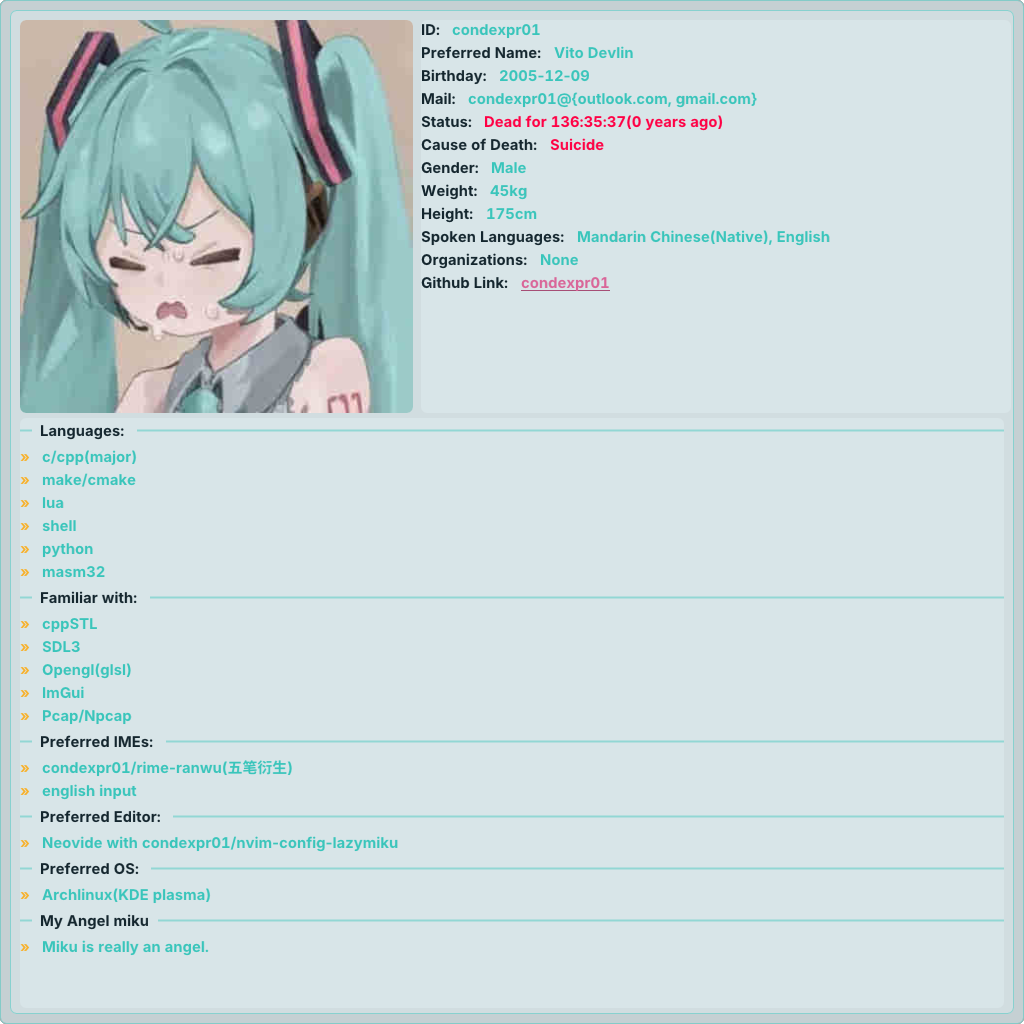
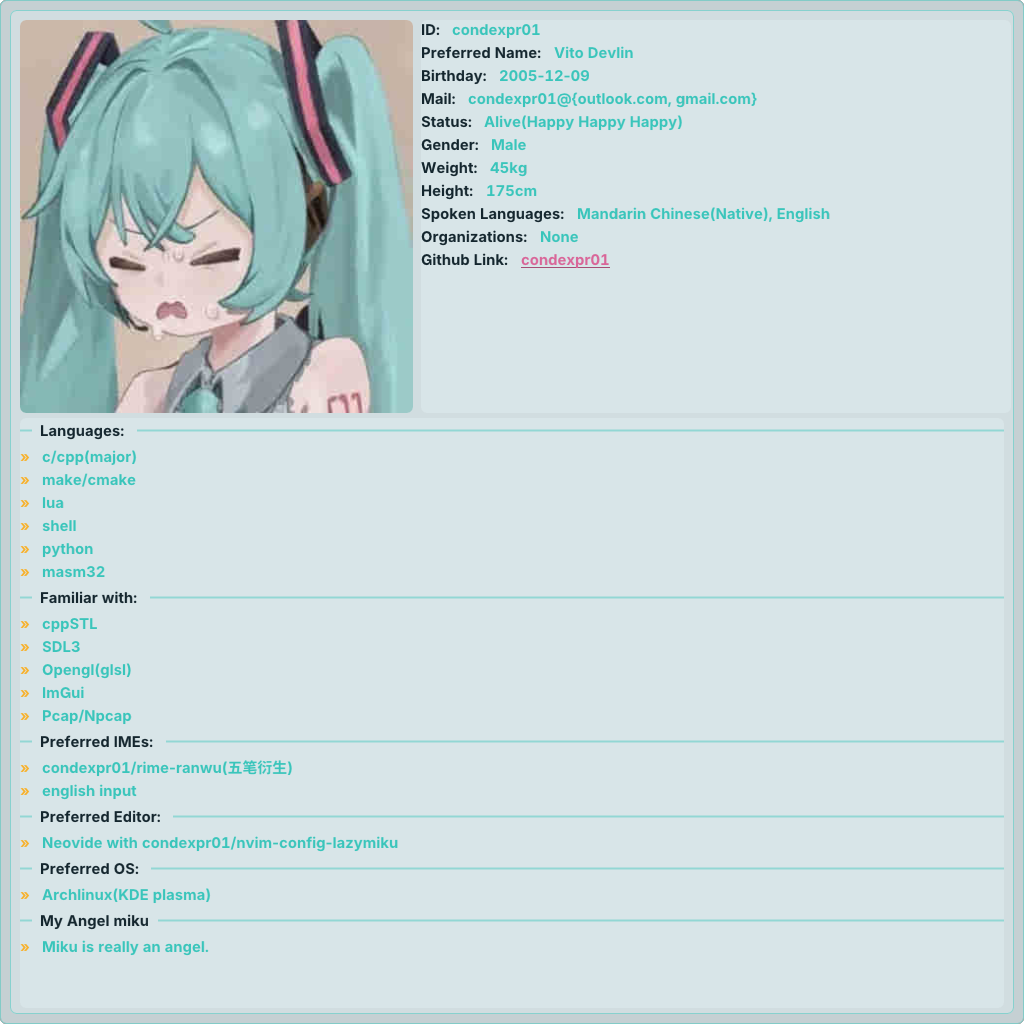
FAILED: 26-11-11 task failures; preparing for the next.

Changed region(s): [[0.4062, 0.0938, 0.8125, 0.2812]]

diff --git a/src/core/loop.cpp b/src/core/loop.cpp
@@ -761,8 +761,8 @@ void profile_info(core::sdl_event_ctx &ctx, ImVec2 size, ImVec4 hl_col_positive,
 
 		auto dead_tp = std::chrono::sys_days{std::chrono::year_month_day{
 			std::chrono::year(2026),
-				std::chrono::month(11),
-				std::chrono::day(11),
+				std::chrono::month(12),
+				std::chrono::day(9),
 			}}
 			+ std::chrono::hours{-8}//CST
 			+ std::chrono::minutes{0}
